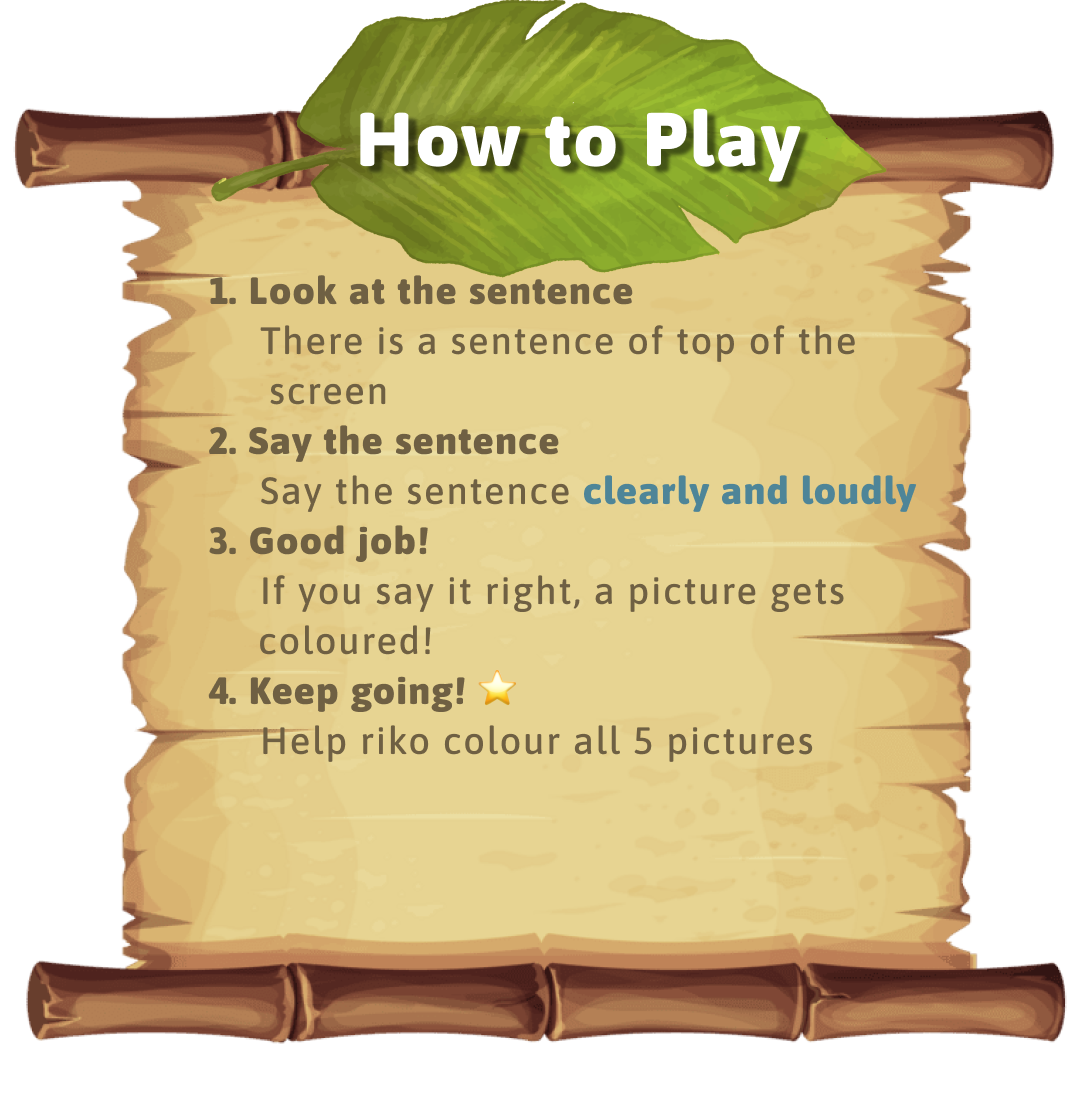
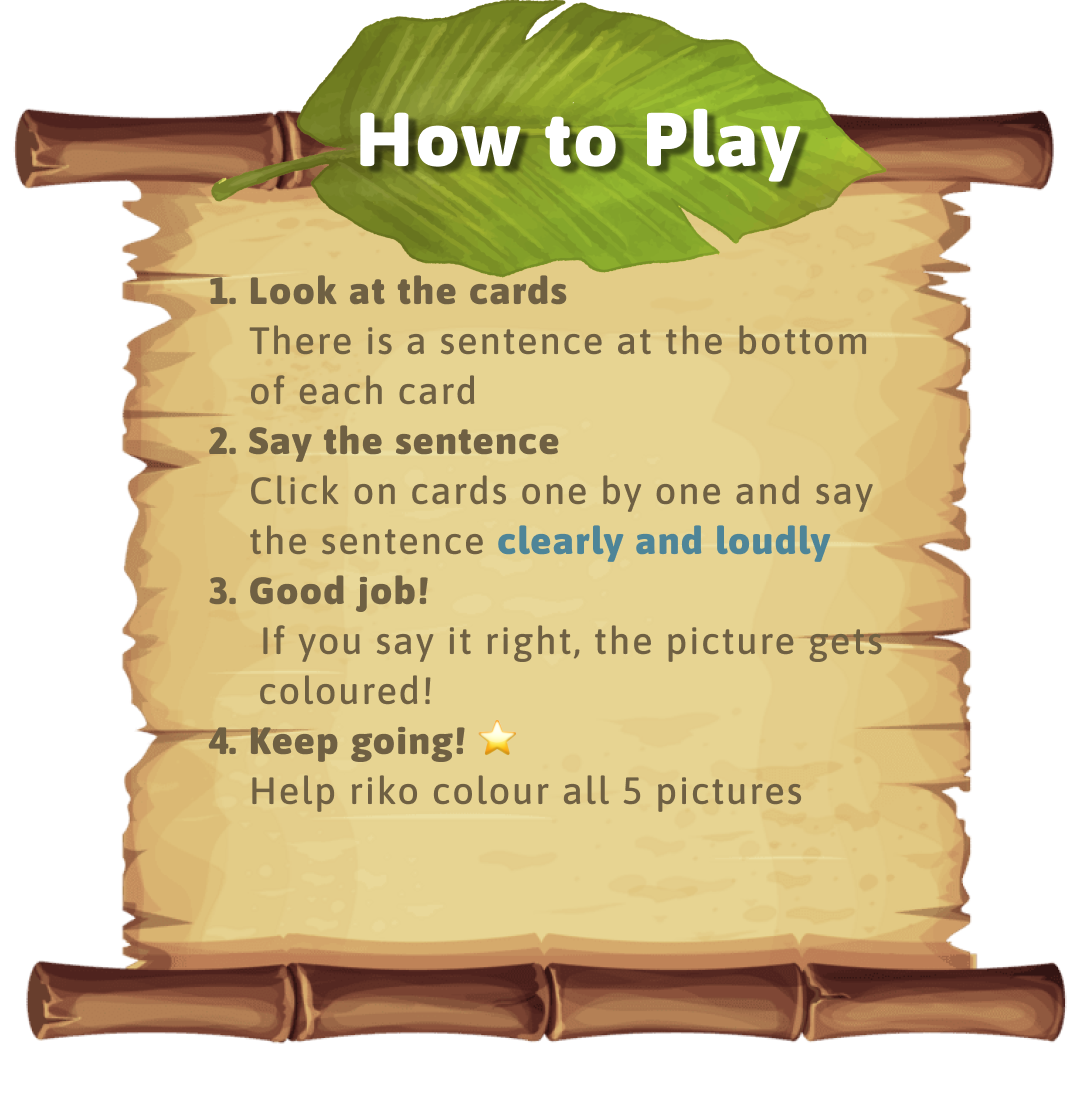
Changes to the sentence game

Changed region(s): [[0.1833, 0.4296, 0.8556, 0.7365], [0.2139, 0.2455, 0.7333, 0.3682], [0.7639, 0.3069, 0.7944, 0.3375]]

diff --git a/src/scenes/Lsound/SentenceGame/LSentenceGame.js b/src/scenes/Lsound/SentenceGame/LSentenceGame.js
@@ -11,16 +11,16 @@ export default class LSentenceGame extends Phaser.Scene {
         this.load.image("pause", "assets/icons/pause.png");
         this.load.image("settings", "assets/icons/settings.png");
         this.load.image("quit", "assets/icons/back.png");
-        this.load.image("house", "assets/images/house.png");
-        this.load.image("tree", "assets/images/tree.png");
-        this.load.image("flower", "assets/images/flower.png");
-        this.load.image("cub", "assets/images/cub.png");
-        this.load.image("bird", "assets/images/bird.png");
-        this.load.image("house-colored", "assets/images/house-colored.png");
-        this.load.image("tree-colored", "assets/images/tree-colored.png");
-        this.load.image("flower-colored", "assets/images/flower-colored.png");
-        this.load.image("cub-colored", "assets/images/cub-colored.png");
-        this.load.image("bird-colored", "assets/images/bird-colored.png");
+        this.load.image("easy-1", "assets/images/easy-1.png");
+        this.load.image("easy-2", "assets/images/easy-2.png");
+        this.load.image("easy-3", "assets/images/easy-3.png");
+        this.load.image("easy-4", "assets/images/easy-4.png");
+        this.load.image("easy-5", "assets/images/easy-5.png");
+        this.load.image("easy-colored-1", "assets/images/easy-colored-1.png");
+        this.load.image("easy-colored-2", "assets/images/easy-colored-2.png");
+        this.load.image("easy-colored-3", "assets/images/easy-colored-3.png");
+        this.load.image("easy-colored-4", "assets/images/easy-colored-4.png");
+        this.load.image("easy-colored-5", "assets/images/easy-colored-5.png");
         this.load.image("riko-sent-game", "assets/images/riko-sent-game.png");
         this.load.spritesheet('riko-jumping', 'assets/spritesheets/riko-jumping.png', {
             frameWidth: 280,
@@ -69,45 +69,34 @@ export default class LSentenceGame extends Phaser.Scene {
         this.startMic();
 
         this.startCountdown(() => {
-            this.riko = this.add.image(this.width * 0.2, this.height * 0.75, 'riko-sent-game')
-            .setScale(0.2)
+            this.riko = this.add.image(this.width * 0.775, this.height * 0.75, 'riko-sent-game')
+            .setScale(0.25)
             .setDepth(1);
 
-            this.currentSentenceIndex = 0;
-
-            this.sentences = [
-                "The little lion likes leaves.",
-                "Lily lost her yellow ball.",
-                "Look at the blue balloon.",
-                "The lamp is on the table.",
-                "The girl loves lemons."
-            ];
-
-            this.drawSentence(this.sentences[this.currentSentenceIndex]);
-
-            const pictureLayouts = [
-                { x: this.width * 0.1, y: this.height * 0.5, scale: 0.11 },
-                { x: this.width * 0.5, y: this.height * 0.55,  scale: 0.12 },
-                { x: this.width * 0.75, y: this.height * 0.75,  scale: 0.05 },
-                { x: this.width * 0.95, y: this.height * 0.35, scale: 0.06 },
-                { x: this.width * 0.94, y: this.height * 0.75,  scale: 0.035 },
-            ];
-
+            this.coloredCount = 0;
             this.pictures = [];
-            this.picNames = ["tree", "house", "cub", "bird", "flower"];
+            this.picNames = ["easy-1", "easy-2", "easy-3", "easy-4", "easy-5"];
 
-            const startX = this.width / 2 - 240;
-            const y = this.height / 2 + 50;
-            const gap = 120;
+            const startX = this.width * 0.23;
+            const topRowY = this.height * 0.25;
+            const bottomRowY = this.height * 0.75;
+            const gap = 425; // space between pictures
 
-            for (let i = 0; i < 5; i++) {
-                const layout = pictureLayouts[i];
+            for (let i = 0; i < this.picNames.length; i++) {
+                const isTopRow = i < 3;
+                const rowIndex = isTopRow ? i : i - 3;
 
-                const pic = this.add.image(
-                    layout.x,
-                    layout.y,
-                    this.picNames[i]
-                ).setScale(layout.scale);
+                const x = startX + rowIndex * gap;
+                const y = isTopRow ? topRowY : bottomRowY;
+
+                const pic = this.add.image(x, y, this.picNames[i])
+                    .setScale(0.54)
+                    .setInteractive({ useHandCursor: true });
+
+                pic.index = i;
+                pic.isColored = false;
+
+                pic.on("pointerdown", () => this.colorPicture(pic));
 
                 this.pictures.push(pic);
             }
@@ -115,87 +104,43 @@ export default class LSentenceGame extends Phaser.Scene {
     }
 
 
-    drawSentence(sentence) {
-        // Clear previous sentence letters
-        if (this.sentenceLetters) {
-            this.sentenceLetters.forEach(l => l.destroy());
+    colorPicture(pic) {
+        if (pic.isColored) return;
+
+        pic.setTexture(`easy-colored-${pic.index + 1}`);
+        pic.isColored = true;
+        this.coloredCount++;
+
+        // pop animation
+        this.tweens.add({
+            targets: pic,
+            scale: pic.scale + 0.05,
+            duration: 150,
+            yoyo: true
+        });
+
+        if (this.coloredCount === this.pictures.length) {
+            this.playRikoJump();
         }
-
-        this.sentenceLetters = [];
-
-        const y = 60;
-        let totalWidth = 0;
-
-        // Measure total width
-        const tempLetters = [];
-        sentence.split("").forEach(char => {
-            const t = this.add.text(0, 0, char, {
-                fontSize: "36px",
-                fontFamily: "Inter",
-                fontStyle: "bold"
-            });
-            totalWidth += t.width;
-            tempLetters.push(t);
-        });
-        tempLetters.forEach(t => t.destroy());
-
-        let x = this.width / 2 - totalWidth / 2;
-
-        // Draw colored letters
-        sentence.split("").forEach(char => {
-            const isL = char.toLowerCase() === "l";
-
-            const letter = this.add.text(x, y, char, {
-                fontSize: "36px",
-                fontFamily: "Inter",
-                fontStyle: "bold",
-                color: isL ? "#e53935" : "#686767"
-            })
-            .setOrigin(0, 0.5)
-            .setInteractive({ useHandCursor: true });
-
-            letter.on("pointerdown", () => {
-                this.onSentencePressed();
-            });
-
-            x += letter.width;
-            this.sentenceLetters.push(letter);
-        });
     }
 
 
-    onSentencePressed() {
-        if (this.currentSentenceIndex >= this.pictures.length) return;
-
-        const index = this.currentSentenceIndex;
-
-        // Color the correct picture
-        this.pictures[index].setTexture(
-            `${this.picNames[index]}-colored`
-        );
-
-        this.currentSentenceIndex++;
-
-        // Update sentence
-        if (this.currentSentenceIndex < this.sentences.length) {
-            this.drawSentence(
-                this.sentences[this.currentSentenceIndex]
-            );
-        } else {
-            this.drawSentence("Great job! ⭐");
+    playRikoJump() {
+        if (this.riko) {
             this.riko.destroy();
-
-            this.riko = this.add.sprite(
-                this.width * 0.25,
-                this.height * 0.75,
-                'riko-jumping'
-            )
-            .setScale(0.75)
-            .setDepth(1);
-
-            this.riko.play('rikoJump');
         }
+
+        this.riko = this.add.sprite(
+            this.width * 0.8,
+            this.height * 0.75,
+            'riko-jumping'
+        )
+        .setScale(0.9)
+        .setDepth(1);
+
+        this.riko.play('rikoJump');
     }
+
 
 
     startMic() {
